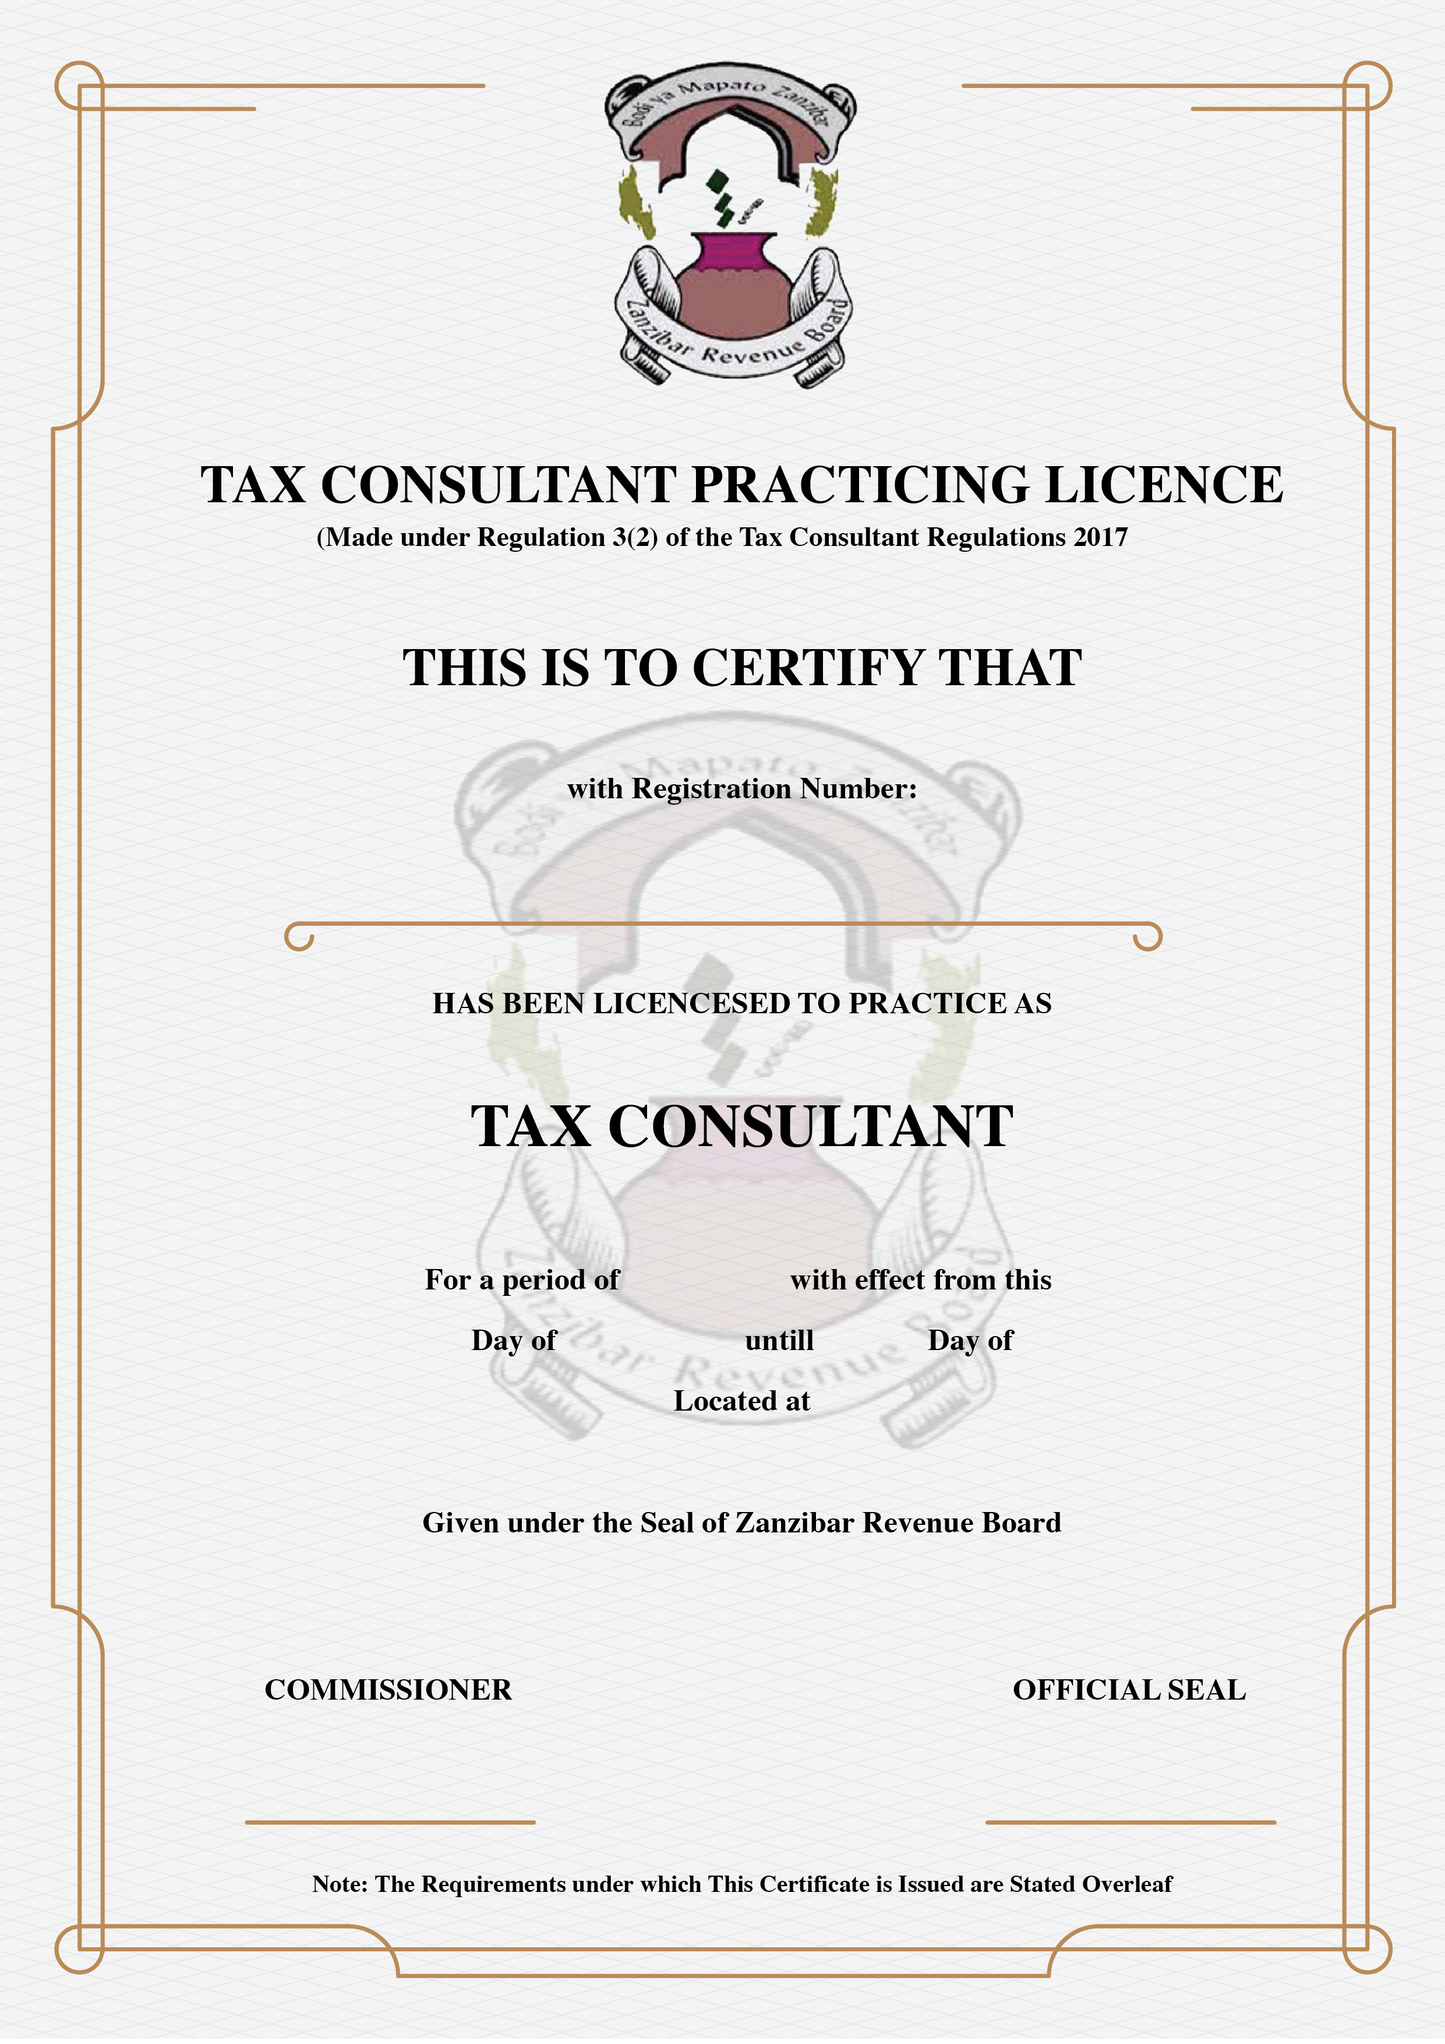
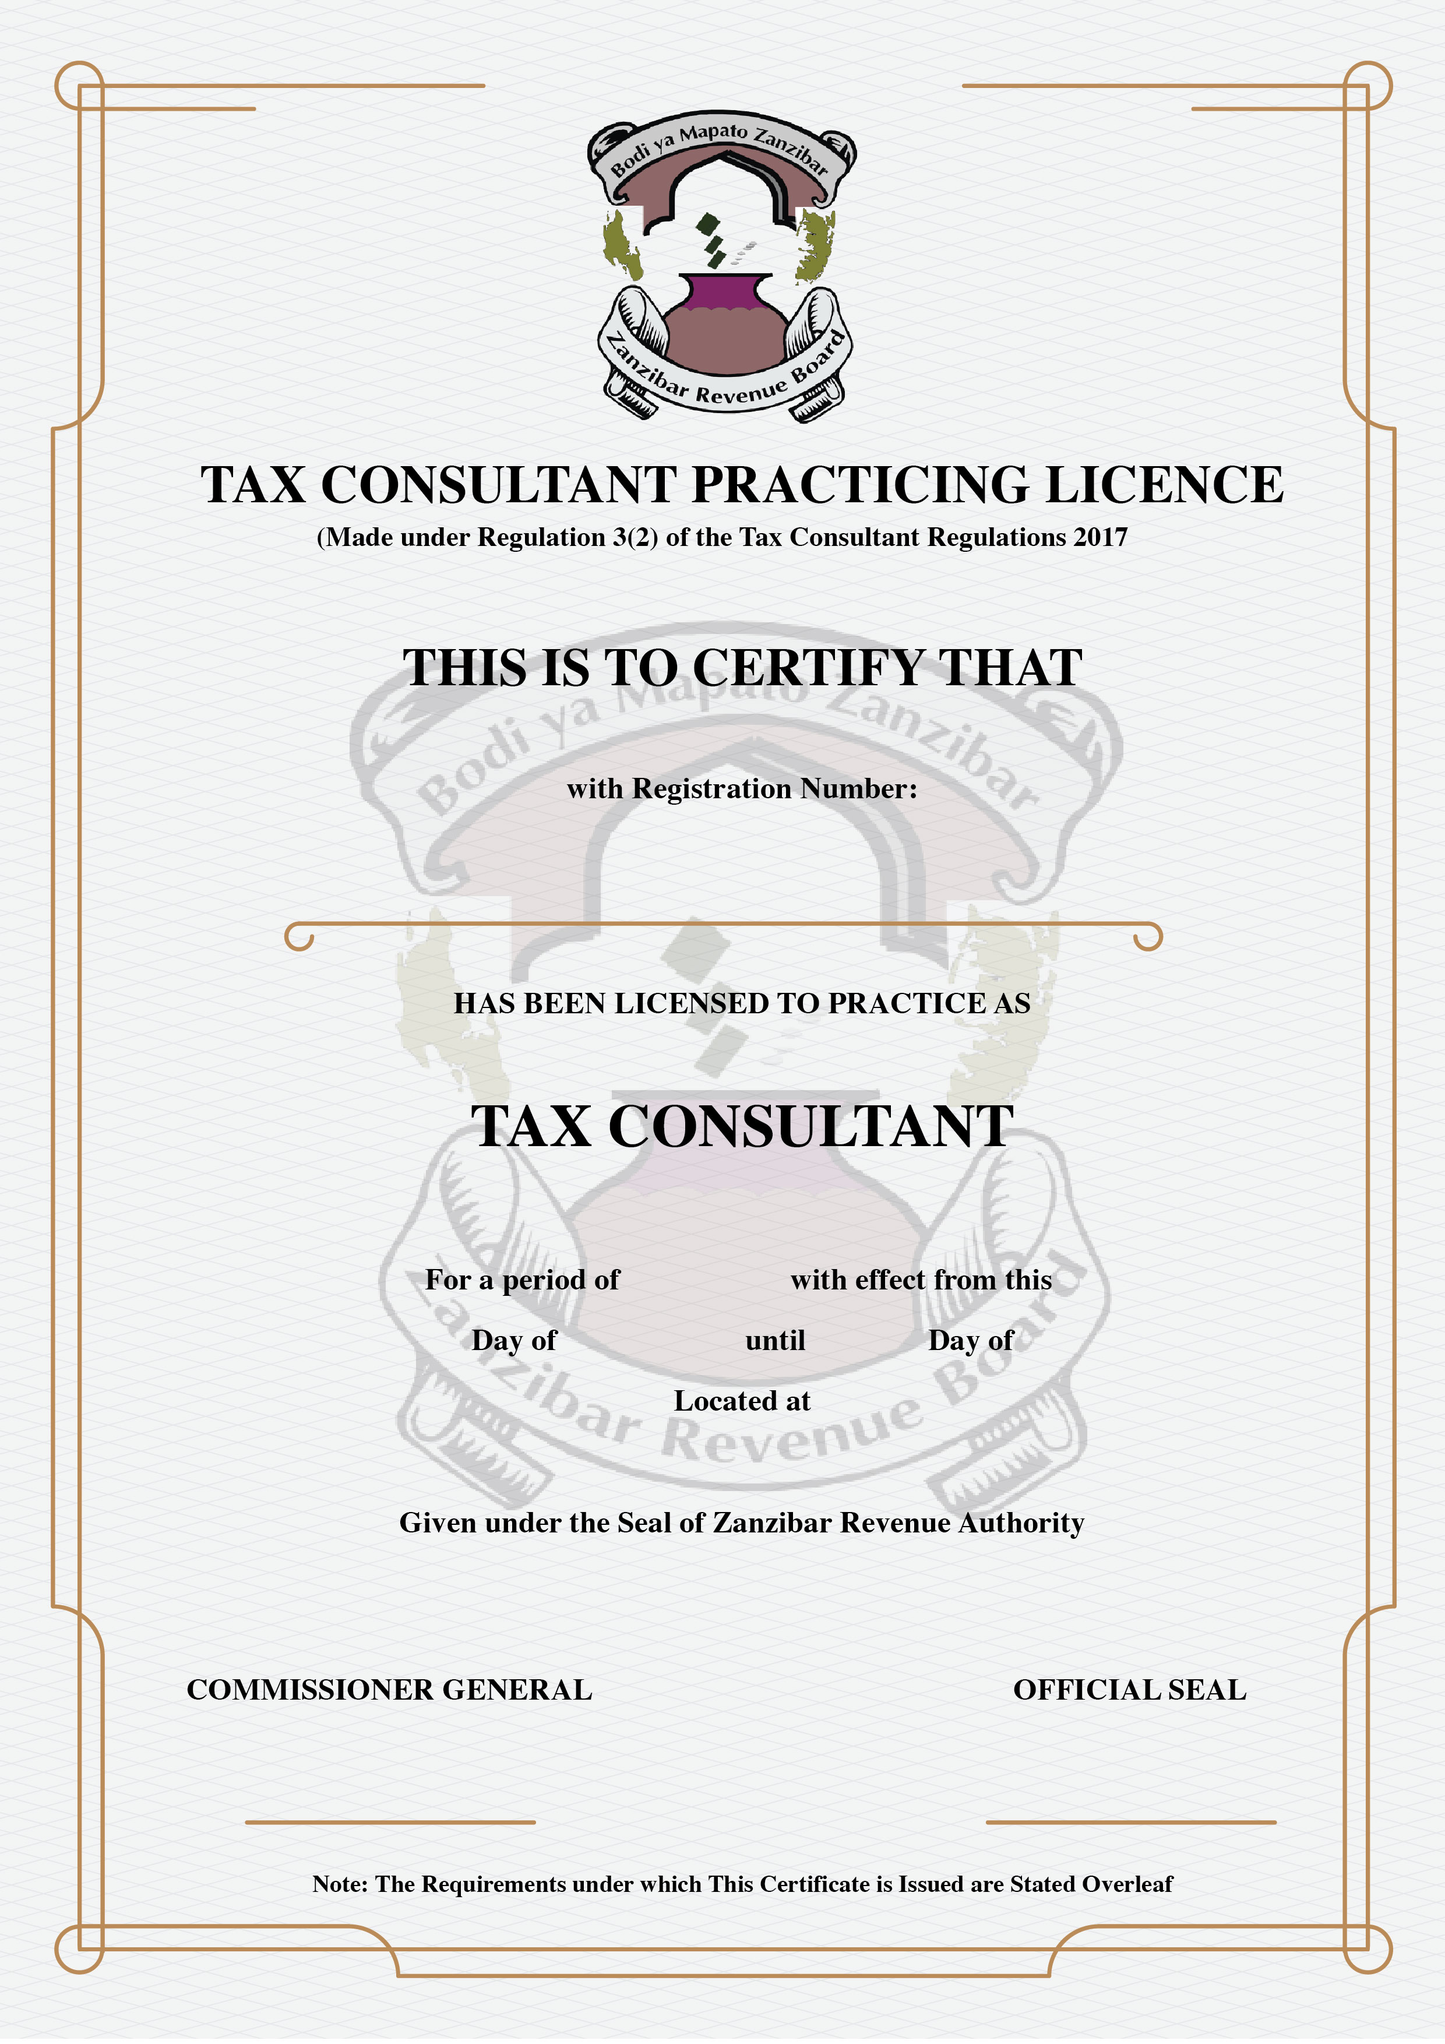
fixing and updates

Changed region(s): [[0.2173, 0.2796, 0.7762, 0.7457], [0.4036, 0.0311, 0.5899, 0.2175], [0.1552, 0.8079, 0.4036, 0.8389]]

diff --git a/resources/views/taxagents/active-agent-show.blade.php b/resources/views/taxagents/active-agent-show.blade.php
@@ -14,29 +14,18 @@
             </div>
         </div>
 
-{{--        <div class="card-body">--}}
-{{--            <div class="d-flex justify-content-between p-2">--}}
-{{--                <div>--}}
-{{--                    <a href="{{ route('taxagents.consultant-renew-requests', encrypt($agent->id)) }}" class="btn btn-info">View Renew Requests</a>--}}
-{{--                </div>--}}
-{{--                @if ($agent->status == \App\Models\TaxAgentStatus::APPROVED && $agent->bill->status == \App\Models\PaymentStatus::PAID)--}}
-{{--                    <div class="d-flex justify-content-end">--}}
-{{--                        <a style="background: #f5f9fa; color: #3c5f86;" class="file-item" target="_blank"--}}
-{{--                           href="{{ route('taxagents.certificate', [\Illuminate\Support\Facades\Crypt::encrypt($agent->id)]) }}">--}}
-{{--                            <i class="bi bi-file-earmark-pdf-fill px-2" style="font-size: x-large"></i>--}}
-{{--                            <div style="font-weight: 500;" class="ml-1">--}}
-{{--                                Download Certificate--}}
-{{--                            </div>--}}
-{{--                        </a>--}}
-
-{{--                    </div>--}}
-{{--                @endif--}}
-{{--            </div>--}}
-{{--            @include('taxagents.includes.show')--}}
-
-{{--        </div>--}}
-
         <div class="card-body">
+            <div class="d-flex justify-content-end">
+                @if ($agent->status == \App\Models\TaxAgentStatus::APPROVED)
+                    <a style="background: #f5f9fa; color: #3c5f86;" class="file-item" target="_blank"
+                       href="{{ route('taxagents.certificate', [\Illuminate\Support\Facades\Crypt::encrypt($agent->id)]) }}">
+                        <i class="bi bi-file-earmark-pdf-fill px-2" style="font-size: x-large"></i>
+                        <div style="font-weight: 500;" class="ml-1">
+                            Download Certificate
+                        </div>
+                    </a>
+                @endif
+            </div>
             <div class="card p-0 m-0">
                 <div class="card-body mt-0 p-2">
                     <nav class="nav nav-tabs mt-0 border-top-0">

diff --git a/resources/views/taxagents/certificate.blade.php b/resources/views/taxagents/certificate.blade.php
@@ -12,20 +12,6 @@
             margin: -70px;
         }
 
-        .watermark {
-            -webkit-transform: rotate(331deg);
-            -moz-transform: rotate(331deg);
-            -o-transform: rotate(331deg);
-            transform: rotate(331deg);
-            font-size: 6em;
-            color: rgba(255, 5, 5, 0.17);
-            position: absolute;
-            font-family: 'Denk One', sans-serif;
-            text-transform: uppercase;
-            padding-left: 10%;
-            top: 50%;
-        }
-
         .taxpayerName {
             font-size: 1.2em;
             text-align: center;
@@ -106,13 +92,25 @@
             letter-spacing: 2px;
         }
         .commissioner-signature {
-            top: 85%;
+            top: 86%;
             position: absolute;
             text-transform: uppercase;
             font-weight: bold;
             width: 100%;
             padding-left: 70px;
             padding-right: 70px;
+            left: 30px;
+        }
+        .commissioner-name {
+            top: 93%;
+            position: absolute;
+            text-transform: uppercase;
+            font-weight: bold;
+            font-size: 20px;
+            width: 100%;
+            padding-left: 70px;
+            padding-right: 70px;
+            margin-left: 55px;
             left: 30px;
         }
     </style>
@@ -129,6 +127,9 @@
     <span class="location">{{$taxagent->district->name.', '.$taxagent->region->name}}</span>
     <span class="commissioner-signature">
         <img src="{{ $signaturePath == '/sign/commissioner.png' ? public_path() . '/sign/commissioner.png': storage_path().'/app/'. $signaturePath}}">
+    </span>
+    <span class="commissioner-name">
+        {{$commissinerFullName}}
     </span>
     <div style="overflow: hidden; position:absolute; top: 81%; left: 44%; background: white; border-radius: 5px; height: 180px; width: 180px; padding: 5px">
         <img class="img-fluid" src="{{ $dataUri }}" style="height: 189px">

diff --git a/resources/views/withholding-agent/certificate.blade.php b/resources/views/withholding-agent/certificate.blade.php
@@ -5,7 +5,7 @@
     <title></title>
     <style>
         body {
-            background-image: url("{{ public_path() }}/images/certificate/withholding_agent.png");
+            background-image: url("{{ public_path() }}/images/certificate/withholding_agent.jpg");
             background-repeat: no-repeat;
             background-position: center;
             background-size: cover;
@@ -50,13 +50,25 @@
             text-align: center;
         }
         .commissioner-signature {
-            top: 85%;
+            top: 86%;
             position: absolute;
             text-transform: uppercase;
             font-weight: bold;
             width: 100%;
             padding-left: 70px;
             padding-right: 70px;
+            left: 30px;
+        }
+        .commissioner-name {
+            top: 93%;
+            position: absolute;
+            text-transform: uppercase;
+            font-weight: bold;
+            font-size: 20px;
+            width: 100%;
+            padding-left: 70px;
+            padding-right: 70px;
+            margin-left: 55px;
             left: 30px;
         }
     </style>
@@ -71,6 +83,9 @@
     <span class="embed dateGiven">{{ date('M d, Y') }}</span>
     <span class="commissioner-signature">
         <img src="{{ $signaturePath == '/sign/commissioner.png' ? public_path() . '/sign/commissioner.png': storage_path().'/app/'. $signaturePath}}">
+    </span>
+    <span class="commissioner-name">
+        {{$commissinerFullName}}
     </span>
     <div style="overflow: hidden; position:absolute; top: 83%; left: 44%; background: white; border-radius: 5px; height: 180px; width: 180px; padding: 5px">
         <img class="img-fluid" src="{{ $dataUri }}" style="height: 189px">

diff --git a/app/Http/Controllers/Business/BusinessFileController.php b/app/Http/Controllers/Business/BusinessFileController.php
@@ -71,7 +71,6 @@ class BusinessFileController extends Controller
         $taxType = BusinessTaxType::where('business_id', $location->business->id)->where('tax_type_id', $taxTypeId)->firstOrFail();
 
         $certificateNumber = $this->generateCertificateNumber($location, $tax->prefix);
-        $signaturePath = SystemSetting::where('code', SystemSetting::GENERAL_COMMISSIONER_SIGN)->where('is_approved', 1)->value('value') ?? null;
 
         $code = 'ZIN: ' . $location->zin . ", " .
             'Business Name: ' . $location->business->name . ", " .
@@ -97,7 +96,10 @@ class BusinessFileController extends Controller
 
         $dataUri = $result->getDataUri();
 
-        $pdf = PDF::loadView('business.certificate', compact('location', 'tax', 'dataUri', 'taxType', 'certificateNumber', 'signaturePath'));
+        $signaturePath = SystemSetting::certificatePath();
+        $commissinerFullName = SystemSetting::commissinerFullName();
+        
+        $pdf = PDF::loadView('business.certificate', compact('location', 'tax', 'dataUri', 'taxType', 'certificateNumber', 'signaturePath', 'commissinerFullName'));
         $pdf->setPaper('a4', 'portrait');
         $pdf->setOption(['dpi' => 150, 'defaultFont' => 'sans-serif', 'isRemoteEnabled' => true]);
 

diff --git a/resources/views/tax-clearance/includes/online-certificate.blade.php b/resources/views/tax-clearance/includes/online-certificate.blade.php
@@ -47,13 +47,25 @@
             top: 61%;
         }
         .commissioner-signature {
-            top: 87%;
+            top: 88%;
             position: absolute;
             text-transform: uppercase;
             font-weight: bold;
             width: 100%;
             padding-left: 70px;
             padding-right: 70px;
+            left: 30px;
+        }
+        .commissioner-name {
+            top: 95.5%;
+            position: absolute;
+            text-transform: uppercase;
+            font-weight: bold;
+            font-size: 20px;
+            width: 100%;
+            padding-left: 70px;
+            padding-right: 70px;
+            margin-left: 55px;
             left: 30px;
         }
         .qr-code {
@@ -91,6 +103,9 @@
         </span>
         <span class="commissioner-signature">
             <img src="{{ $signaturePath == '/sign/commissioner.png' ? public_path() . '/sign/commissioner.png': storage_path().'/app/'. $signaturePath}}">
+        </span>
+        <span class="commissioner-name">
+            {{$commissinerFullName}}
         </span>
     </body>
 </html>

diff --git a/resources/views/tax-clearance/includes/certificate.blade.php b/resources/views/tax-clearance/includes/certificate.blade.php
@@ -47,13 +47,25 @@
             top: 61%;
         }
         .commissioner-signature {
-            top: 87%;
+            top: 88%;
             position: absolute;
             text-transform: uppercase;
             font-weight: bold;
             width: 100%;
             padding-left: 70px;
             padding-right: 70px;
+            left: 30px;
+        }
+        .commissioner-name {
+            top: 95.5%;
+            position: absolute;
+            text-transform: uppercase;
+            font-weight: bold;
+            font-size: 20px;
+            width: 100%;
+            padding-left: 70px;
+            padding-right: 70px;
+            margin-left: 55px;
             left: 30px;
         }
         .qr-code {
@@ -77,6 +89,9 @@
         </span>
         <span class="commissioner-signature">
             <img src="{{ $signaturePath == '/sign/commissioner.png' ? public_path() . '/sign/commissioner.png': storage_path().'/app/'. $signaturePath}}">
+        </span>
+        <span class="commissioner-name">
+            {{$commissinerFullName}}
         </span>
     </body>
 </html>

diff --git a/resources/views/layouts/component/sidebar.blade.php b/resources/views/layouts/component/sidebar.blade.php
@@ -427,18 +427,9 @@
 
         @can('tax-clearance-management')
             <li class="{{ request()->is('tax-clearance*') ? 'active' : '' }}">
-                <a href="#taxClearance" data-toggle="collapse"
-                   aria-expanded="{{ request()->is('/tax-clearance*') ? 'true' : 'false' }}" class="dropdown-toggle">
-                    Tax Clearance Management
+                <a href="{{ route('tax-clearance.index') }}">
+                    Tax Clearance Requests
                 </a>
-                <ul class="collapse list-unstyled {{ request()->is('tax-clearance*') ? 'show' : '' }}"
-                    id="taxClearance">
-                    @can('tax-clearance-view')
-                        <li class="{{ request()->is('tax-clearance/tax-clearance*') ? 'active' : '' }}">
-                            <a href="{{ route('tax-clearance.index') }}">Requests</a>
-                        </li>
-                    @endcan
-                </ul>
             </li>
         @endcan
 

diff --git a/resources/views/business/certificate.blade.php b/resources/views/business/certificate.blade.php
@@ -77,6 +77,18 @@
             padding-right: 70px;
             left: 30px;
         }
+        .commissioner-name {
+            top: 93%;
+            position: absolute;
+            text-transform: uppercase;
+            font-weight: bold;
+            font-size: 20px;
+            width: 100%;
+            padding-left: 70px;
+            padding-right: 70px;
+            margin-left: 55px;
+            left: 30px;
+        }
         .qr-code {
             overflow: hidden;
             position:absolute;
@@ -131,6 +143,9 @@
         </span>
         <span class="commissioner-signature">
             <img src="{{ $signaturePath == '/sign/commissioner.png' ? public_path() . '/sign/commissioner.png': storage_path().'/app/'. $signaturePath}}">
+        </span>
+        <span class="commissioner-name">
+            {{$commissinerFullName}}
         </span>
         <div class="qr-code">
             <img class="img-fluid" src="{{ $dataUri }}" style="height: 189px">

diff --git a/app/Mail/Business/Taxtype/ChangeTaxType.php b/app/Mail/Business/Taxtype/ChangeTaxType.php
@@ -82,9 +82,10 @@ class ChangeTaxType extends Mailable
 
                     $dataUri = $result->getDataUri();
 
-                    $signaturePath = SystemSetting::where('code', SystemSetting::GENERAL_COMMISSIONER_SIGN)->where('is_approved', 1)->value('value') ?? null;
+                    $signaturePath = SystemSetting::certificatePath();
+                    $commissinerFullName = SystemSetting::commissinerFullName();
 
-                    $pdf = PDF::loadView('business.tax-change-certificate', compact('location', 'tax', 'dataUri', 'taxType', 'certificateNumber', 'signaturePath'));
+                    $pdf = PDF::loadView('business.tax-change-certificate', compact('location', 'tax', 'dataUri', 'taxType', 'certificateNumber', 'signaturePath', 'commissinerFullName'));
 
                     $pdf->setPaper('a4', 'portrait');
                     $pdf->setOption(['dpi' => 150, 'defaultFont' => 'sans-serif']);

diff --git a/resources/views/business/tax-change-certificate.blade.php b/resources/views/business/tax-change-certificate.blade.php
@@ -90,6 +90,18 @@
             padding-right: 70px;
             left: 30px;
         }
+        .commissioner-name {
+            top: 93%;
+            position: absolute;
+            text-transform: uppercase;
+            font-weight: bold;
+            font-size: 20px;
+            width: 100%;
+            padding-left: 70px;
+            padding-right: 70px;
+            margin-left: 55px;
+            left: 30px;
+        }
 
         .qr-code {
             overflow: hidden;
@@ -147,6 +159,9 @@
     </span>
     <span class="commissioner-signature">
         <img src="{{ $signaturePath == '/sign/commissioner.png' ? public_path() . '/sign/commissioner.png': storage_path().'/app/'. $signaturePath}}">
+    </span>
+    <span class="commissioner-name">
+        {{$commissinerFullName}}
     </span>
     <div class="qr-code">
         <img class="img-fluid" src="{{ $dataUri }}" style="height: 189px">

diff --git a/app/Http/Livewire/TaxAgentFeeModal.php b/app/Http/Livewire/TaxAgentFeeModal.php
@@ -46,8 +46,7 @@ class TaxAgentFeeModal extends Component
 
         DB::beginTransaction();
         try {
-            $duration = TaPaymentConfiguration::query()
-                ->where('category', '=', $this->category)
+            $duration = TaPaymentConfiguration::where('category', '=', $this->category)
                 ->where('is_citizen', $this->nationality)
                 ->first();
 
@@ -58,7 +57,7 @@ class TaxAgentFeeModal extends Component
                 'created_by' => Auth::id(),
             ];
             if ($duration == null) {
-                $agent_duration = TaPaymentConfiguration::query()->create($this->new_values);
+                $agent_duration = TaPaymentConfiguration::create($this->new_values);
                 // Get ci_payload
                 if (!$this->sign($agent_duration)) {
                     throw new Exception('Failed to verify consultant duration.');

diff --git a/app/Http/Controllers/TaxAgents/TaxAgentController.php b/app/Http/Controllers/TaxAgents/TaxAgentController.php
@@ -103,9 +103,10 @@ class TaxAgentController extends Controller
 
         $dataUri = $result->getDataUri();
 
-        $signaturePath = SystemSetting::where('code', SystemSetting::GENERAL_COMMISSIONER_SIGN)->where('is_approved', 1)->value('value') ?? null;
+        $signaturePath = SystemSetting::certificatePath();
+        $commissinerFullName = SystemSetting::commissinerFullName();
 
-        $pdf = PDF::loadView('taxagents.certificate', compact('taxagent', 'start_date', 'end_date', 'superStart', 'superEnd', 'diff', 'word', 'dataUri', 'signaturePath'));
+        $pdf = PDF::loadView('taxagents.certificate', compact('taxagent', 'start_date', 'end_date', 'superStart', 'superEnd', 'diff', 'word', 'dataUri', 'signaturePath', 'commissinerFullName'));
         $pdf->setPaper('a4', 'portrait');
         $pdf->setOption(['dpi' => 150, 'defaultFont' => 'sans-serif', 'isRemoteEnabled' => true]);
 
